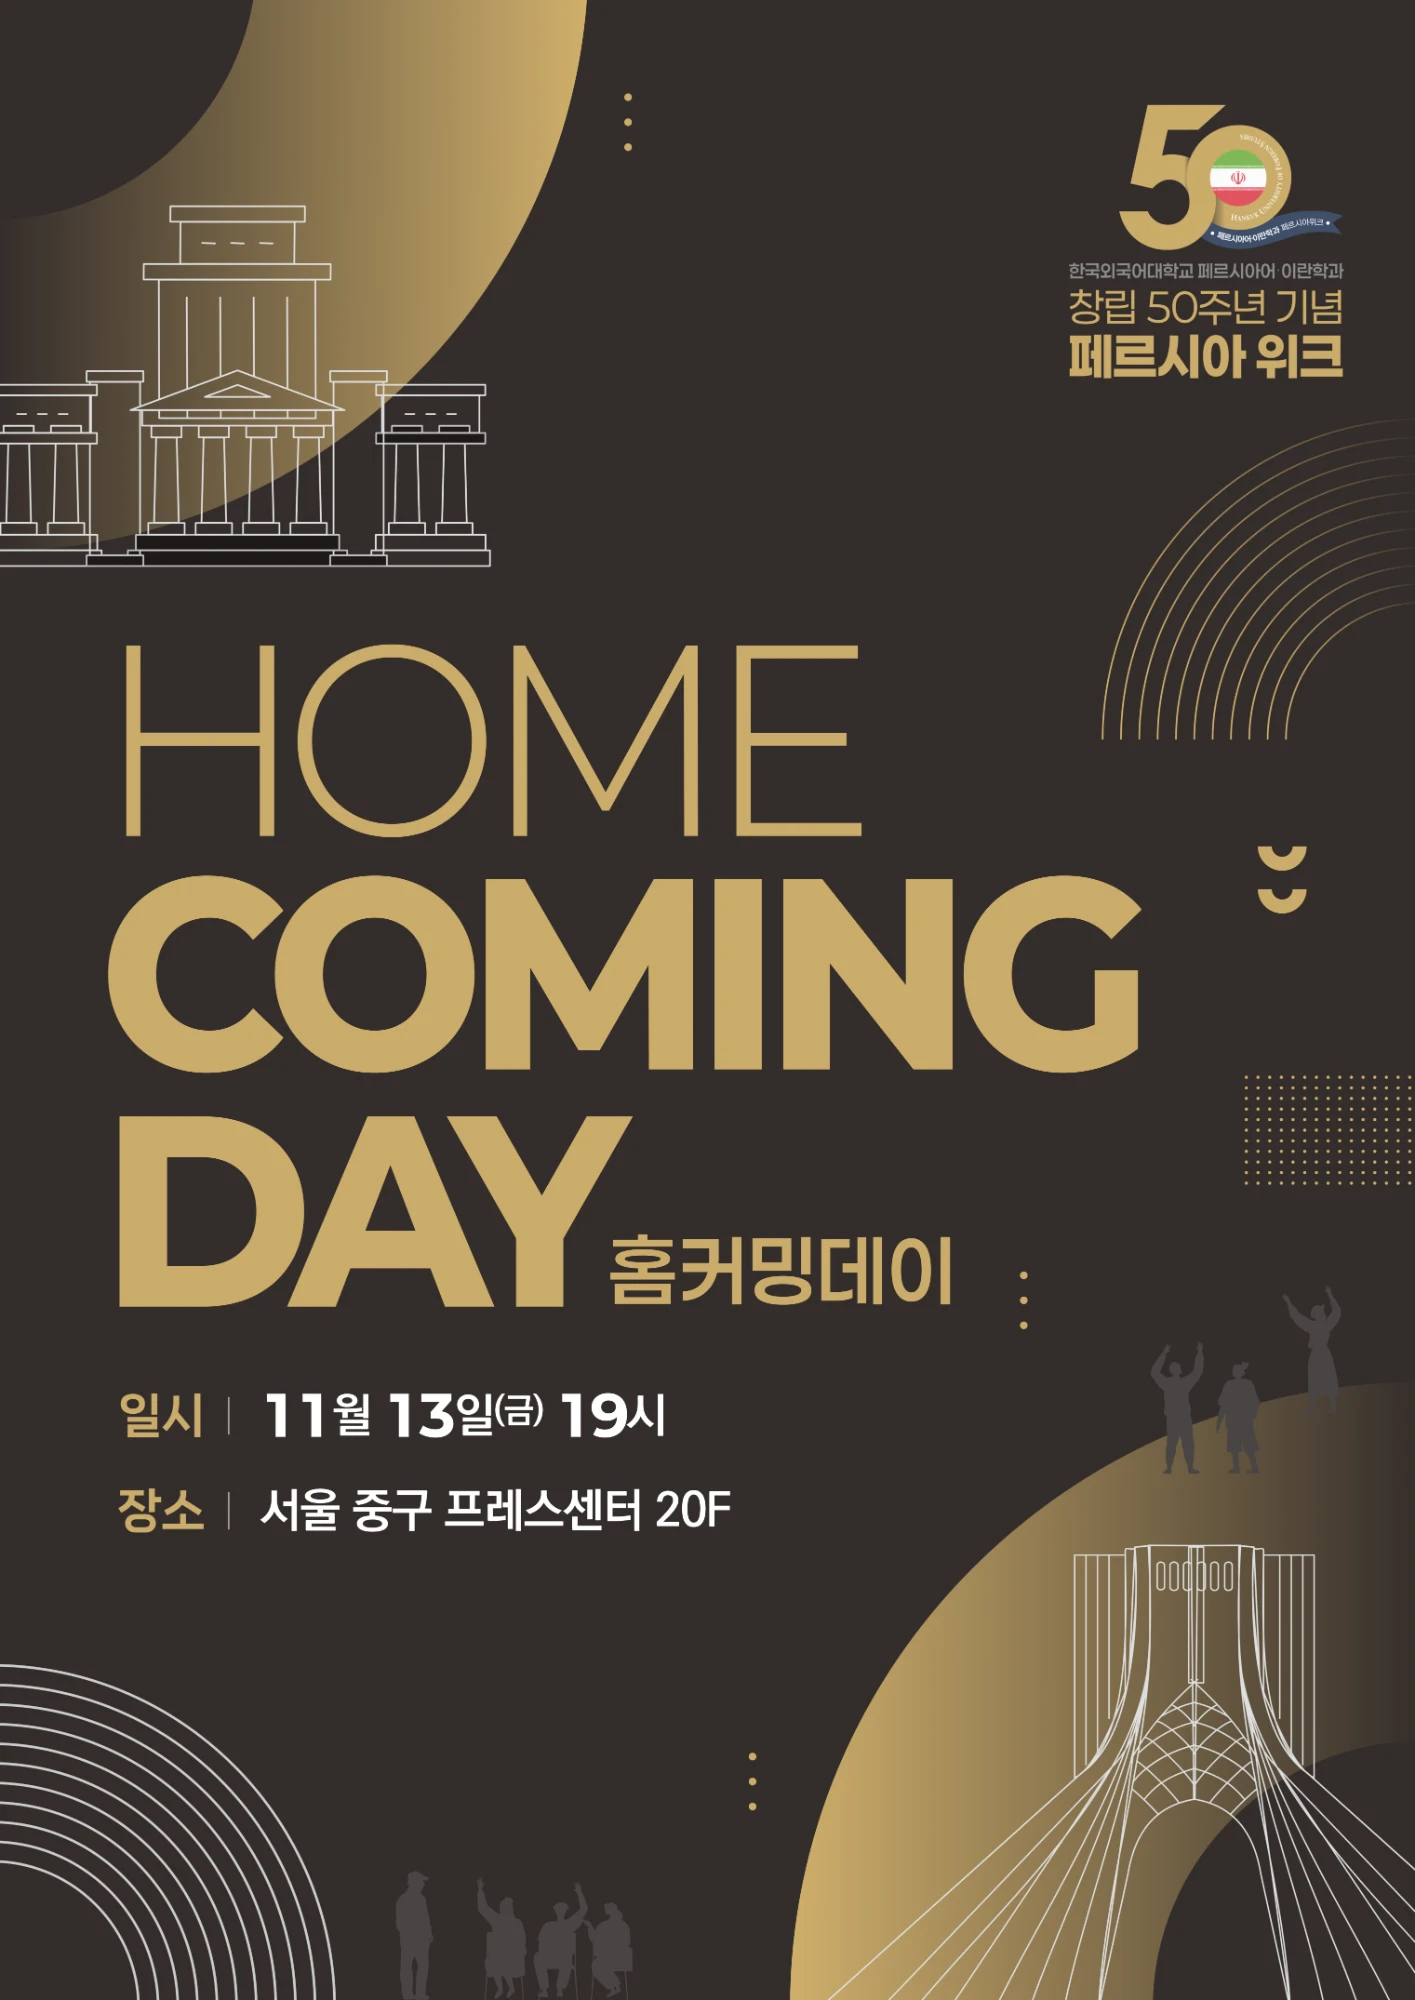
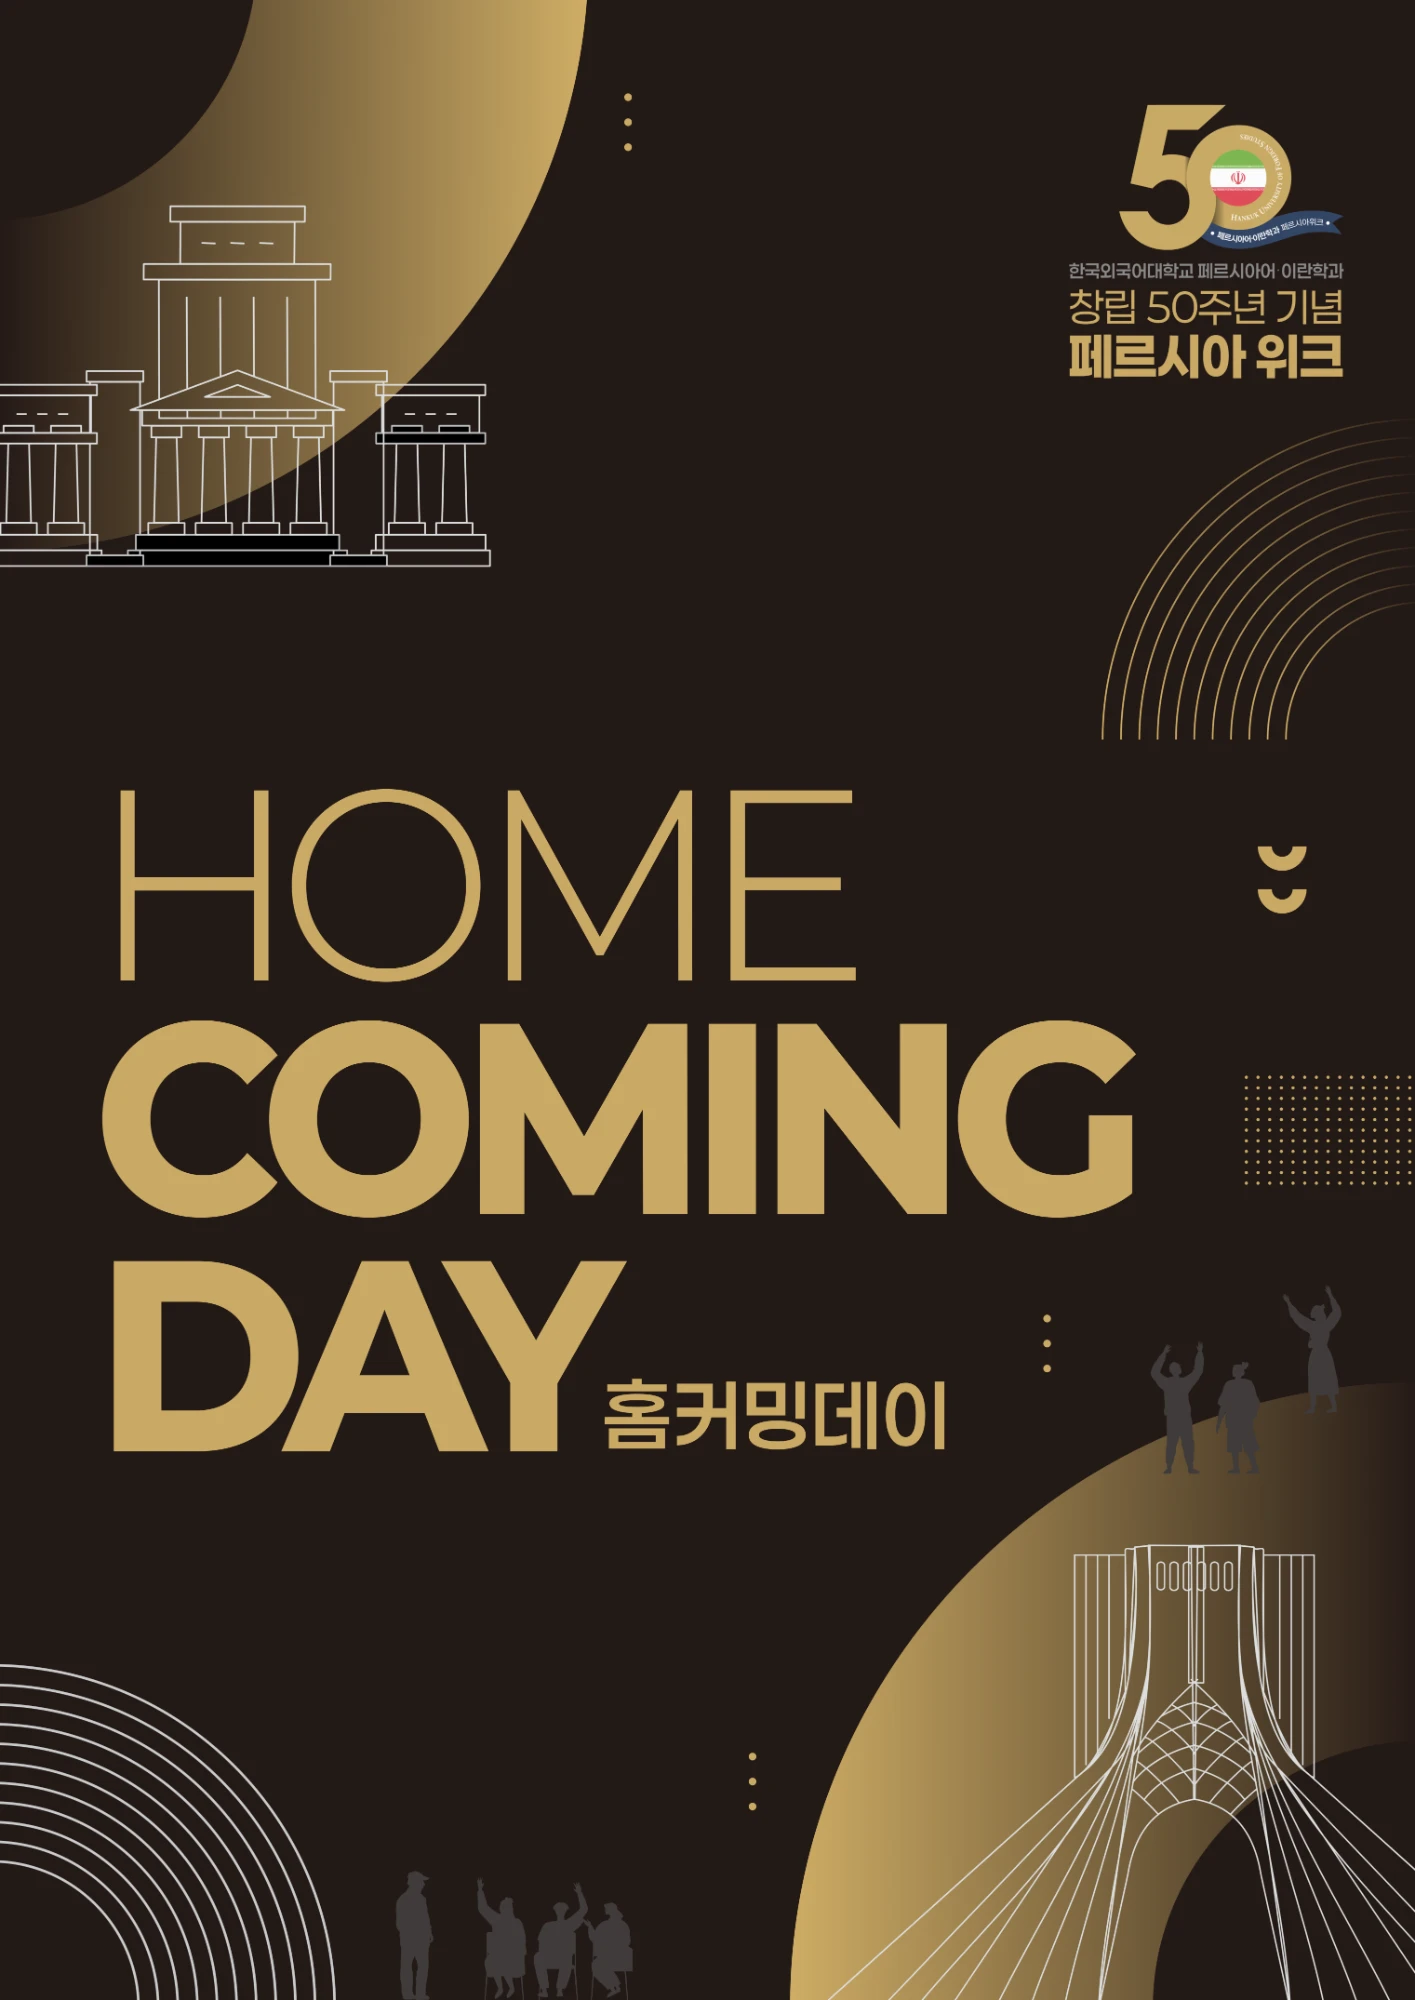
Replace main poster and match cover background to it

diff --git a/index.html b/index.html
@@ -17,11 +17,12 @@
 <link rel="preconnect" href="https://fonts.gstatic.com" crossorigin>
 <link href="https://fonts.googleapis.com/css2?family=Montserrat:wght@300;500;600;800&display=swap" rel="stylesheet">
 <link rel="stylesheet" href="https://cdn.jsdelivr.net/gh/orioncactus/pretendard@v1.3.9/dist/web/variable/pretendardvariable-dynamic-subset.min.css">
-<link rel="preload" as="image" href="images/keyvisual-black.webp">
+<link rel="preload" as="image" href="images/keyvisual-black.webp?v=2">
 <style>
   :root {
     /* 키비주얼(블랙 버전)에서 추출한 톤 */
     --bg: #332d2b;           /* 차콜 */
+    --poster: #221a16;       /* 메인 포스터 배경색 (첫 화면이 포스터와 이어지도록) */
     --bg-deep: #2a2523;
     --card: #3d3633;
     --ink: #f3ede4;
@@ -91,8 +92,8 @@
   .reveal.on { opacity: 1; transform: none; }
 
   /* ---------- 1·2. 키비주얼 + 헤드라인 ---------- */
-  .cover { padding: 0 0 64px; }
-  .kv { position: relative; background: var(--bg); color: #fff; }
+  .cover { padding: 0 0 64px; background: var(--poster); }
+  .kv { position: relative; background: var(--poster); color: #fff; }
   .kv img { width: 100%; height: auto; display: block; aspect-ratio: 1415 / 2000; }
   .kv.fallback { aspect-ratio: 3 / 4; display: flex; align-items: center; justify-content: center; flex-direction: column; }
   .kv.fallback .fifty { font-family: 'Montserrat', sans-serif; font-weight: 800; font-size: 96px; line-height: 1; background: var(--gold-grad); -webkit-background-clip: text; background-clip: text; color: transparent; }
@@ -469,7 +470,7 @@ const CONFIG = {
   bgm: ['audio/song1.m4a', 'audio/song2.m4a', 'audio/song3.m4a'],
 
   // 2. 키비주얼 — 디자인된 이미지가 있으면 경로를 넣으세요 (비우면 기본 디자인)
-  keyVisual: 'images/keyvisual-black.webp',
+  keyVisual: 'images/keyvisual-black.webp?v=2',
   date: '2026-11-13T19:00:00',      // 행사 시작 시각
   placeName: '한국프레스센터 20층 프레스클럽',
   address: '서울시 중구 세종대로 124',
